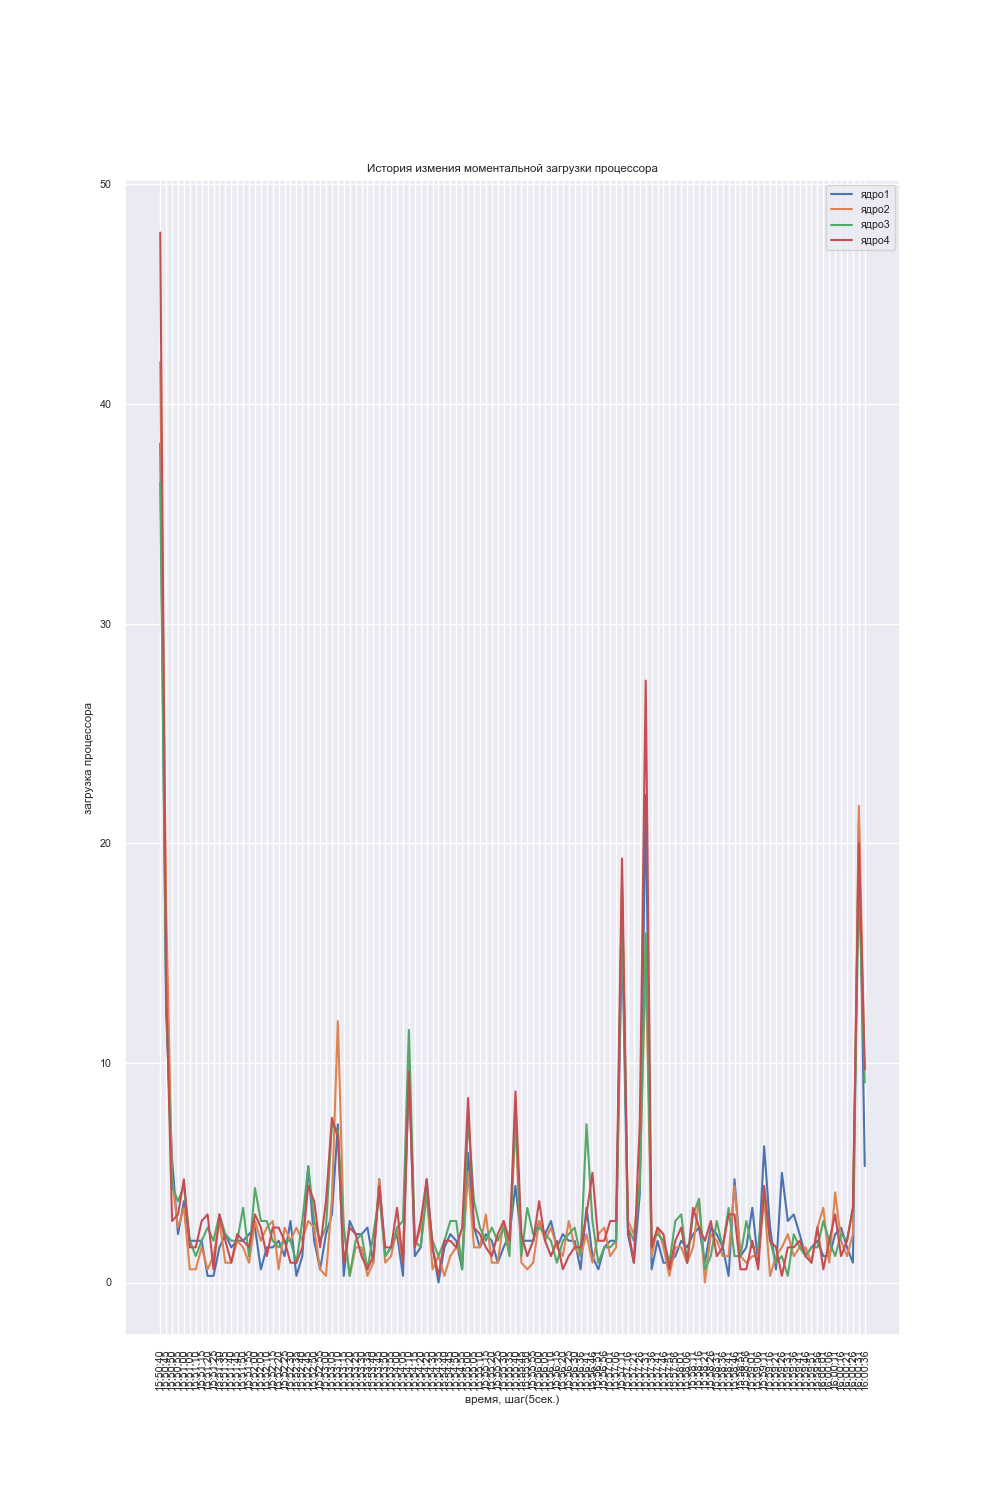
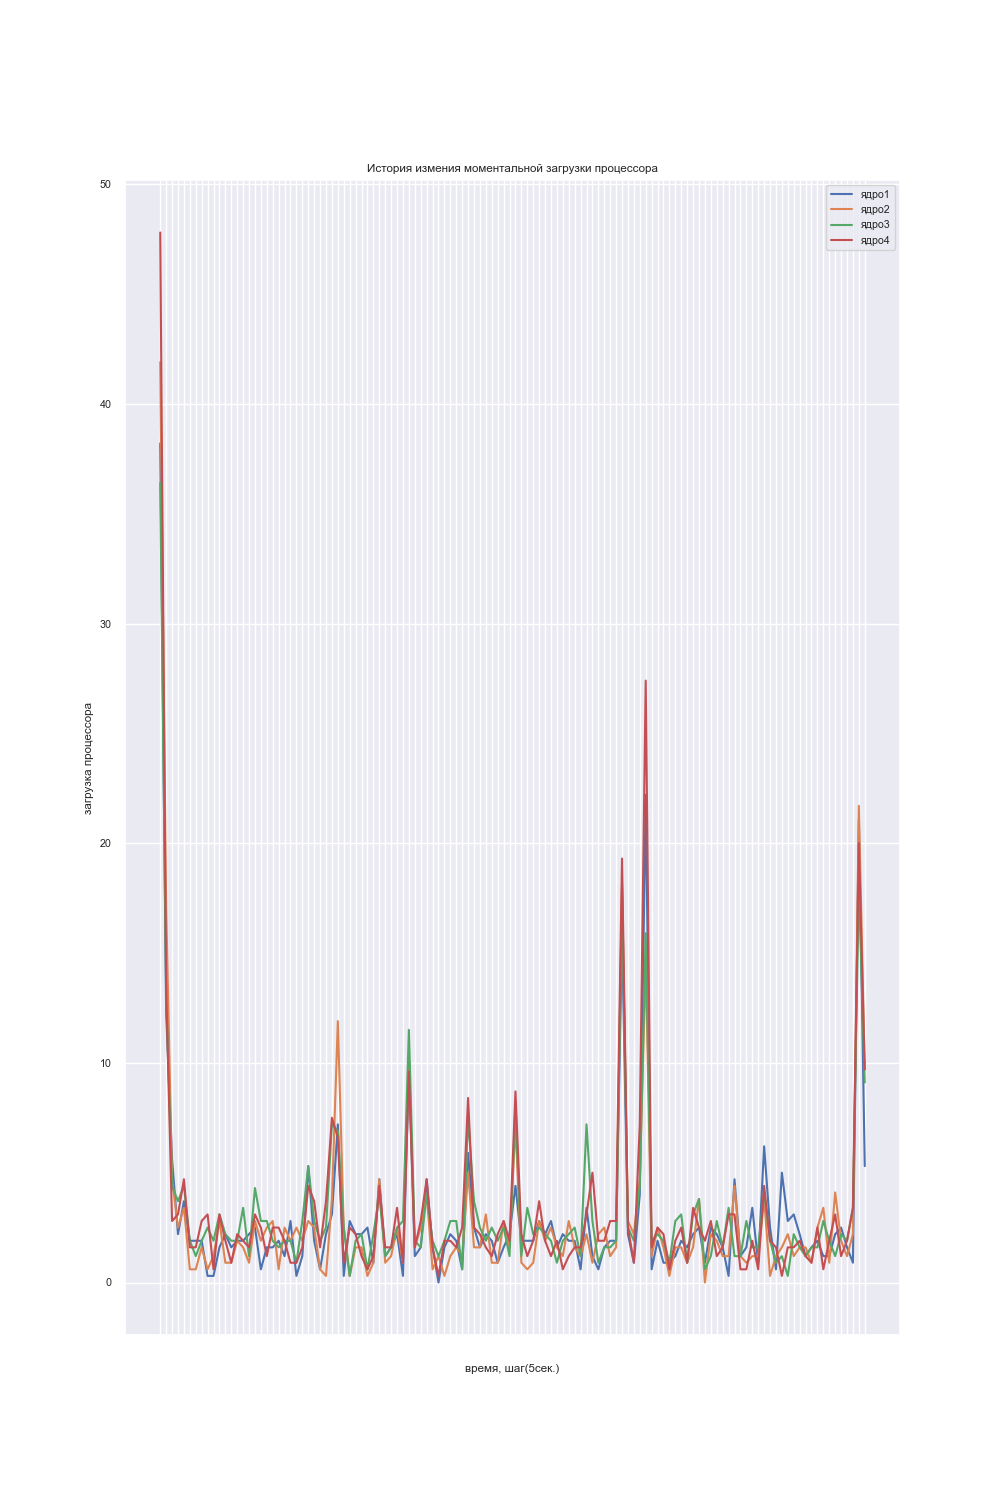
output_2(2)

Changed region(s): [[0.155, 0.8893, 0.868, 0.9507]]

diff --git a/cpu_ldng/csv_test.py b/cpu_ldng/csv_test.py
@@ -58,7 +58,8 @@ def figure_1():
     swarm_plot.set_title("История измения моментальной загрузки процессора")
     swarm_plot.set_ylabel("загрузка процессора")
     swarm_plot.set_xlabel("время, шаг(5сек.)")
-    plt.xticks(rotation=90)
+    plt.xticks(color='w')
+    #plt.xticks(rotation=90)
     swarm_plot.figure.savefig("output_1.png")
     plt.show()
 
@@ -127,11 +128,26 @@ def csv_srez():
             writer.writerow(row_1)
 
 def figure_2():
-    pass
+    data = pd.read_csv('srez_2.csv')
+    data.head()
+
+    sns.set(font_scale=0.7)  # размер надписей к осям
+    plt.figure(figsize=(10, 15))
+
+    swarm_plot = sns.lineplot(data=data, x='cpu_time', y='cpu_avg', legend=False)
+
+    plt.legend(labels='cpu', loc='upper right')  # добавляем легенду
+
+    swarm_plot.set_title("Усредненная загрузка процессора")
+    swarm_plot.set_ylabel("загрузка процессора")
+    swarm_plot.set_xlabel("время, шаг(60сек.)")
+    plt.xticks(rotation=90)
+    swarm_plot.figure.savefig("output_2.png")
+    plt.show()
 
 
 
 csv_all()
 figure_1()
 csv_srez()
-#figure_2()
+figure_2()
